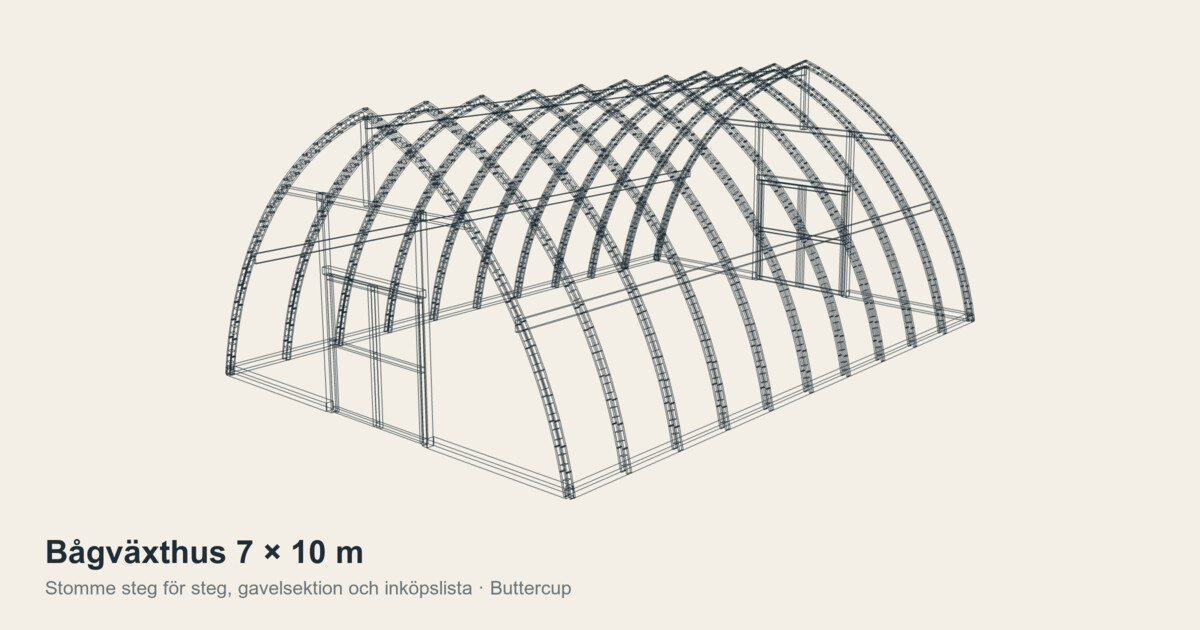
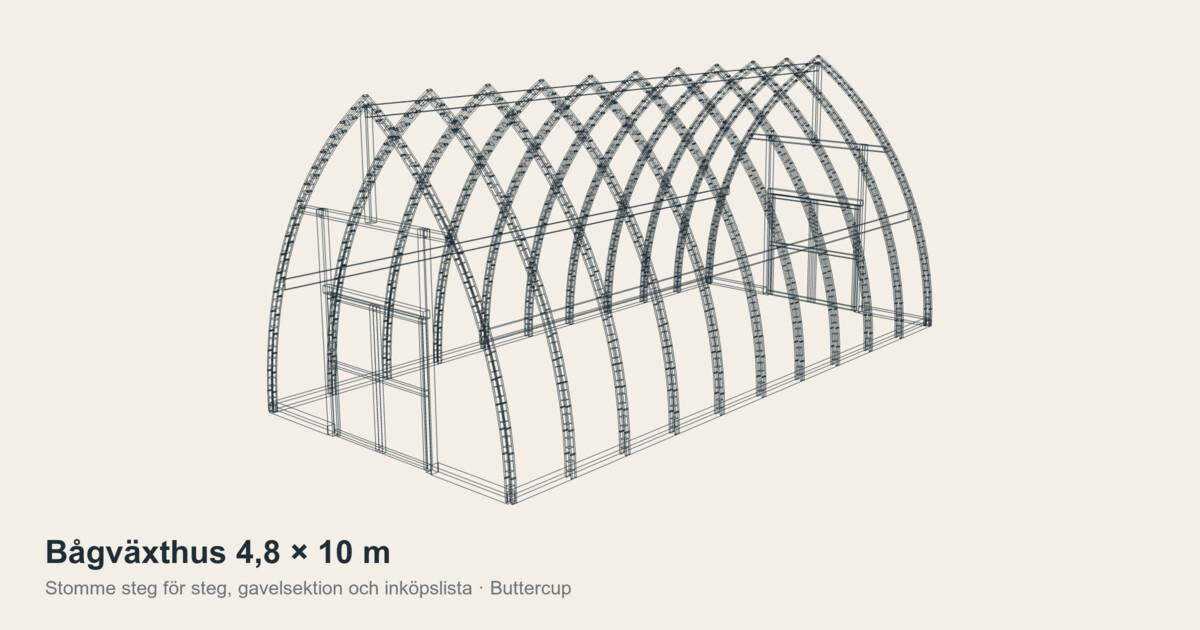
Växthus: standard 4,8 × 4,5 m (Hugos spetsiga form), spetsighet 0, ny förhandsbild

Changed region(s): [[0.185, 0.0905, 0.8325, 0.8143], [0.185, 0.8444, 0.3392, 0.9048]]

diff --git a/vaxthus/index.html b/vaxthus/index.html
@@ -1,13 +1,13 @@
-<!doctype html><html><head><meta charset=utf8><meta name=viewport content="width=device-width,initial-scale=1,viewport-fit=cover"><style>:root{color-scheme:light;box-sizing:border-box;padding-top:env(safe-area-inset-top,0px);padding-bottom:env(safe-area-inset-bottom,0px)}html{scroll-padding-top:env(safe-area-inset-top,0px)}body{margin:0;padding:0;font:14px -apple-system,BlinkMacSystemFont,sans-serif;background:#faf9f5;color:#141413}img{max-width:100%}[hidden]:not([hidden=until-found i]){display:none!important}</style><title>Bågväxthus 7 × 10 m</title>
+<!doctype html><html><head><meta charset=utf8><meta name=viewport content="width=device-width,initial-scale=1,viewport-fit=cover"><style>:root{color-scheme:light;box-sizing:border-box;padding-top:env(safe-area-inset-top,0px);padding-bottom:env(safe-area-inset-bottom,0px)}html{scroll-padding-top:env(safe-area-inset-top,0px)}body{margin:0;padding:0;font:14px -apple-system,BlinkMacSystemFont,sans-serif;background:#faf9f5;color:#141413}img{max-width:100%}[hidden]:not([hidden=until-found i]){display:none!important}</style><title>Bågväxthus 4,8 × 10 m</title>
 <meta property="og:type" content="website">
 <meta property="og:site_name" content="Buttercup">
-<meta property="og:title" content="Bågväxthus 7 × 10 m">
+<meta property="og:title" content="Bågväxthus 4,8 × 10 m">
 <meta property="og:description" content="Res stommen steg för steg, dra i nocken och få inköpslistan. Export till CSV och GLB.">
 <meta property="og:url" content="https://buttercup-omega.vercel.app/vaxthus/">
 <meta property="og:image" content="https://buttercup-omega.vercel.app/vaxthus/og.jpg">
 <meta property="og:image:width" content="1200">
 <meta property="og:image:height" content="630">
-<meta property="og:image:alt" content="Wireframe av Bågväxthus 7 × 10 m">
+<meta property="og:image:alt" content="Wireframe av Bågväxthus 4,8 × 10 m">
 <meta name="twitter:card" content="summary_large_image">
 <meta name="twitter:image" content="https://buttercup-omega.vercel.app/vaxthus/og.jpg">
 <meta name="description" content="Res stommen steg för steg, dra i nocken och få inköpslistan. Export till CSV och GLB.">
@@ -130,7 +130,7 @@ dd{margin:2px 0 0;font-family:var(--mono);font-size:15px;font-variant-numeric:ta
     <div class="hrow"><span class="lab">Dörrhöjd</span><input id="dhi" type="range" min="1.8" max="3" step="0.05" value="2" aria-label="Dörrhöjd"><output id="dho" for="dhi"></output></div>
     <div class="hrow"><span class="lab">Överljus</span><input id="tri" type="range" min="0" max="1.5" step="0.05" value="1" aria-label="Överljusets höjd"><output id="tro" for="tri"></output></div>
     <div class="hrow"><span class="lab">Bågavstånd</span><input id="spi" type="range" min="0.6" max="3" step="0.05" value="1" aria-label="Avstånd mellan bågarna"><output id="spo" for="spi"></output></div>
-    <div class="hrow"><span class="lab">Spetsighet</span><input id="pti" type="range" min="0" max="2.5" step="0.05" value="1" aria-label="Hur spetsig bågen är"><output id="pto" for="pti"></output></div>
+    <div class="hrow"><span class="lab">Spetsighet</span><input id="pti" type="range" min="0" max="2.5" step="0.05" value="0" aria-label="Hur spetsig bågen är"><output id="pto" for="pti"></output></div>
   </section>
   </div>
 
@@ -182,7 +182,7 @@ dd{margin:2px 0 0;font-family:var(--mono);font-size:15px;font-variant-numeric:ta
   var T=THREE, V=function(x,y,z){return new T.Vector3(x,y,z);};
 
   // ---- geometry constants (metres) ----
-  var A=3.5, H=4.2, YC=-1, C, R, TH0, TH1, ARC;
+  var A=2.4, H=4.5, YC=0, C, R, TH0, TH1, ARC;
   function geo(){ C=(H*H-A*A-2*H*YC)/(2*A); R=Math.sqrt((C+A)*(C+A)+YC*YC); TH0=Math.PI-Math.asin(-YC/R); TH1=Math.atan2(H-YC,-C); ARC=R*(TH0-TH1); }
   function slope(){ return Math.atan(C/(H-YC))*180/Math.PI; }
   var DW=1, DH=2, TR=1;                      // half door width, door height, transom height

diff --git a/index.html b/index.html
@@ -38,7 +38,7 @@
   <!-- PROJEKT: lägg nya kort överst -->
   <a class="card" href="vaxthus/">
     <span class="date">okt 2026</span>
-    <h2>Bågväxthus 7 × 10 m</h2>
+    <h2>Bågväxthus 4,8 × 10 m</h2>
     <p>Bågväxthus som byggs upp steg för steg, från syllram till polyetenfilm. Gavelsektion med justerbar nock, dörr och bågavstånd. Inköpslista för trästommen.</p>
   </a>
   <a class="card" href="honshus/">

diff --git a/vaxthus/NOTES.md b/vaxthus/NOTES.md
@@ -3,12 +3,12 @@
 Byggd av Hugo i Claude (desktop). En fil, `index.html`, three.js r128 från cdnjs och typsnitten Archivo + IBM Plex Mono. Ljust och mörkt tema följer systemet.
 
 ## Geometri (meter i koden, mm i gränssnittet)
-- `A` = halva bredden (3,5 → 7 000 mm), `H` = nockhöjd (4,2).
+- `A` = halva bredden, `H` = nockhöjd. Standard nu **4 800 × 4 500 mm** (Hugos val, okt 2026). Originalet var 7 000 × 4 200.
 - Bågen är en **cirkelbåge** med centrum under marken, förskjutet i sidled:
   - `C = (H² − A²) / 2A` → förskjutning 0,77 m
   - `R = C + A` → radie 4,27 m
   - `ARC = R·(π − atan2(H, −C))` → halvbåge 5,933 m, hel båge 11,866 m
-- **Spetsighet (tillagd av Vickan):** `YC` är radiecentrums höjd. Det var 0 i originalet, alltså centrum i marknivå, och nu är det −1,0 m som standard. Bredd och nockhöjd är låsta, så när centrum sänks växer radien och bågarna möts i en spetsigare (gotisk) nock.
+- **Spetsighet (tillagd av Vickan):** `YC` är radiecentrums höjd. Det var 0 i originalet, alltså centrum i marknivå, och det är 0 även som standard nu. Hugos spetsiga form kommer från proportionerna (smalt och högt: 4,8 × 4,5 m ger R 5 419, båge 5 310 och 34° vid nock, med lodräta bågfötter). Bredd och nockhöjd är låsta, så när centrum sänks växer radien och bågarna möts i en spetsigare (gotisk) nock.
   - `C = (H² − A² − 2·H·YC) / 2A`, `R = √((C+A)² + YC²)`
   - Taklutning vid nock = atan(C / (H − YC)). Den gamla rundade bågen gav 10°, standard nu 21° och max (YC = −2,5) ca 30°.
   - Bågen möter marken något lutad i stället för lodrät. Reglaget "Spetsighet" går från 0 (rund) till 2,5 m.

diff --git a/README.md b/README.md
@@ -4,7 +4,7 @@ Samlingsrepo för allt vi bygger. Statiska sidor, ingen build. Varje projekt lig
 
 | Projekt | Mapp | Beskrivning |
 |---|---|---|
-| Bågväxthus 7 × 10 m | [`vaxthus/`](vaxthus/) | Bågväxthus med byggsteg, gavelsektion och inköpslista |
+| Bågväxthus 4,8 × 10 m | [`vaxthus/`](vaxthus/) | Bågväxthus med byggsteg, gavelsektion och inköpslista |
 | Hönshus i 3D | [`honshus/`](honshus/) | Parametrisk three.js-modell av ett hönshus med kompostgrop |
 
 ## Lägga till ett projekt

diff --git a/vaxthus/README.md b/vaxthus/README.md
@@ -1,4 +1,4 @@
-# Bågväxthus 7 × 10 m
+# Bågväxthus 4,8 × 10 m
 
 Dra i reglaget för att resa stommen. Sista steget klär huset i polyetenfilm.
 
